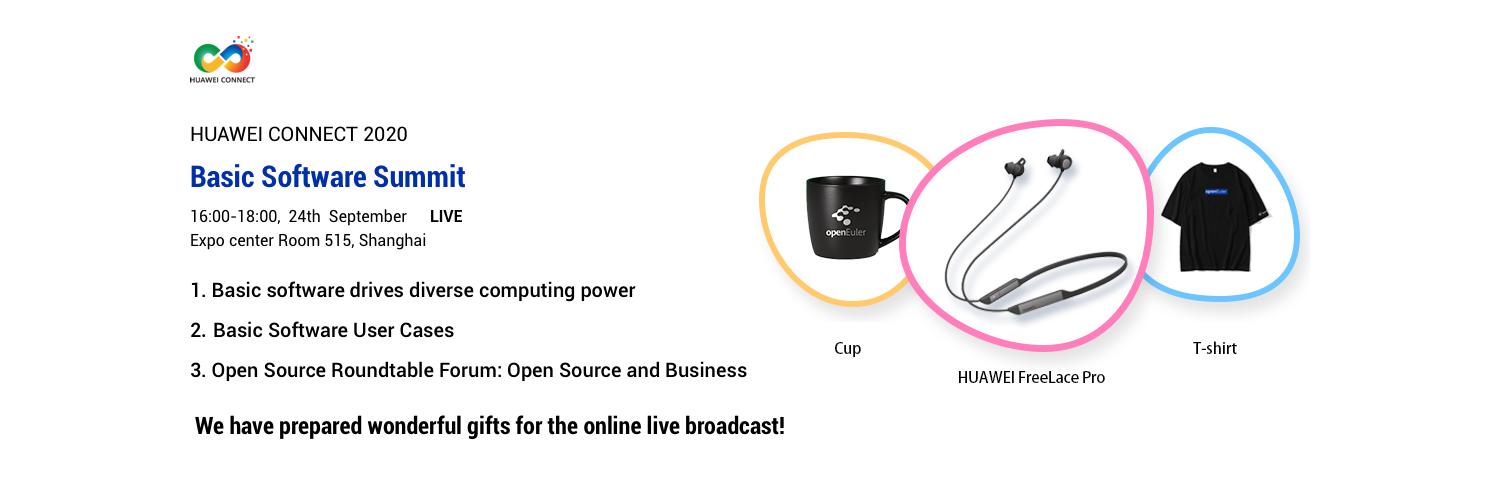
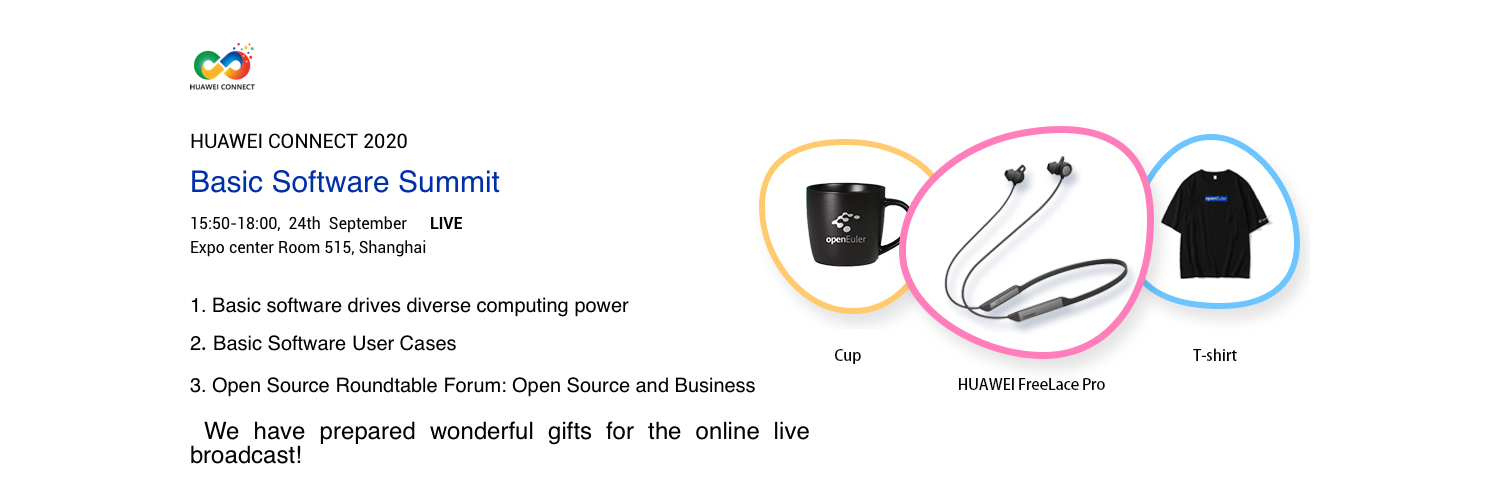
change style

diff --git a/layouts/download/list.html b/layouts/download/list.html
@@ -45,7 +45,7 @@
                         {{ range .Params.driver_item }}
                         <div class="download-btn btn1">
                             <h4>{{ .title }}</h4>
-                            <p>{{ .desc1 }}<a target="_blank" href="{{ .doc_url }}">{{ .doc }}</a>{{ .desc2 }}</p>
+                            <p class="download-desc">{{ .desc1 }}<a target="_blank" href="{{ .doc_url }}">{{ .doc }}</a>{{ .desc2 }}</p>
                             <button class="jar-btn" url="{{ .url }}" type="button">{{ .file_name }}</button>
                             <a class="download-url" href="{{ .downloadUrl }}">{{ .download_name }}</a>
                         </div>

diff --git a/static/css/style.download.css b/static/css/style.download.css
@@ -101,6 +101,7 @@
 .second-btn .download-btn p {
     color: rgba(0, 0, 0, .7);
     width: 300px;
+    height: 100px;
     text-align: left;
     font-size: 14px;
     font-family: Roboto Light;

diff --git a/content/zh-cn/events/2020-9-24-shanghai.md b/content/zh-cn/events/2020-9-24-shanghai.md
@@ -1,7 +1,7 @@
 +++ 
-time = "2020.09.25" 
+time = "2020.09.24" 
 title = "华为全联接2020 - 计算产业基础软件战略进展与展望峰会" 
-location = " · 地点：上海世博中心Room 607+608" 
+location = " · 地点：上海世博中心Room 515" 
 img = "/img/events/software_zh.png" 
 img_mobile = '/img/events/software_mobile_zh.png'
 link = "http://live.huawei.com/huaweiconnect/meeting/cn/5786.html"

diff --git a/content/en-us/events/2020-9-24-shanghai.md b/content/en-us/events/2020-9-24-shanghai.md
@@ -1,7 +1,7 @@
 +++ 
-time = "2020.09.25" 
+time = "2020.09.24" 
 title = "HUAWEI CONNECT 2020 - Basic Software Summit" 
-location = " · Location: Expo Center Room 607+608, Shanghai" 
+location = " · Location: Expo Center Room 515, Shanghai" 
 img = "/img/events/software_en.png" 
 img_mobile = '/img/events/software_mobile_en.png'
 link = "http://live.huawei.com/huaweiconnect/meeting/en/5786.html"
